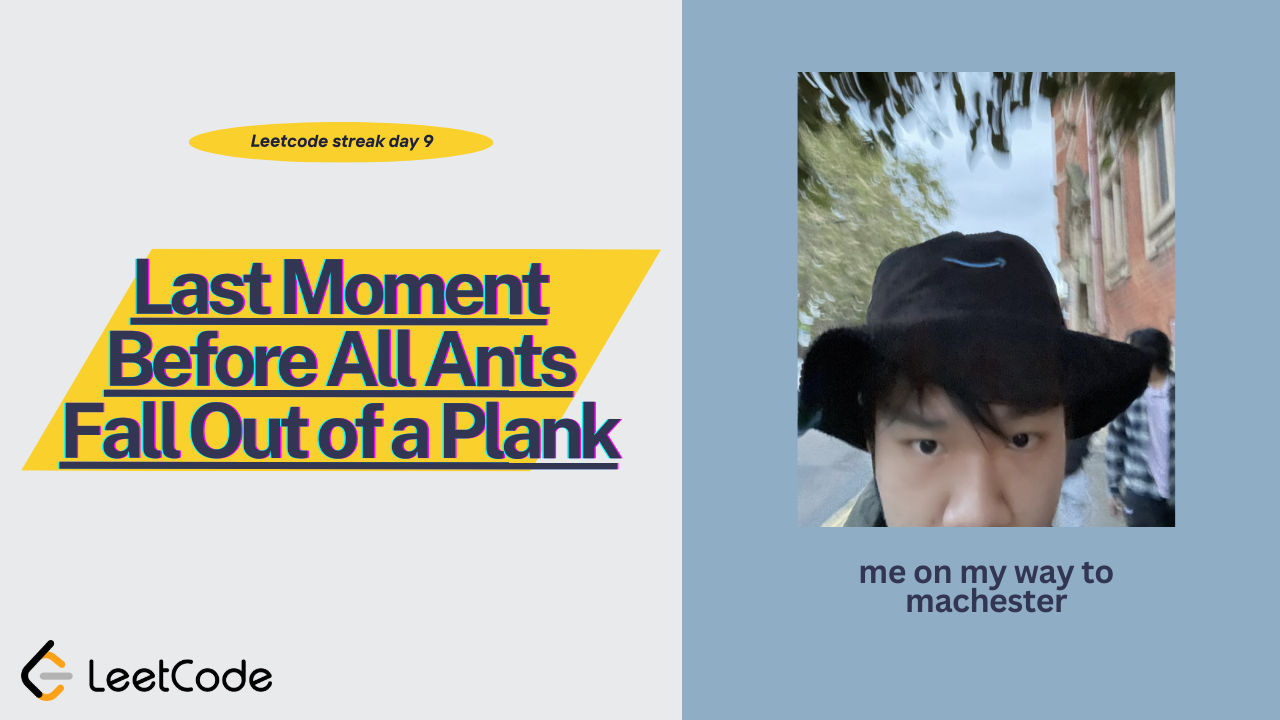
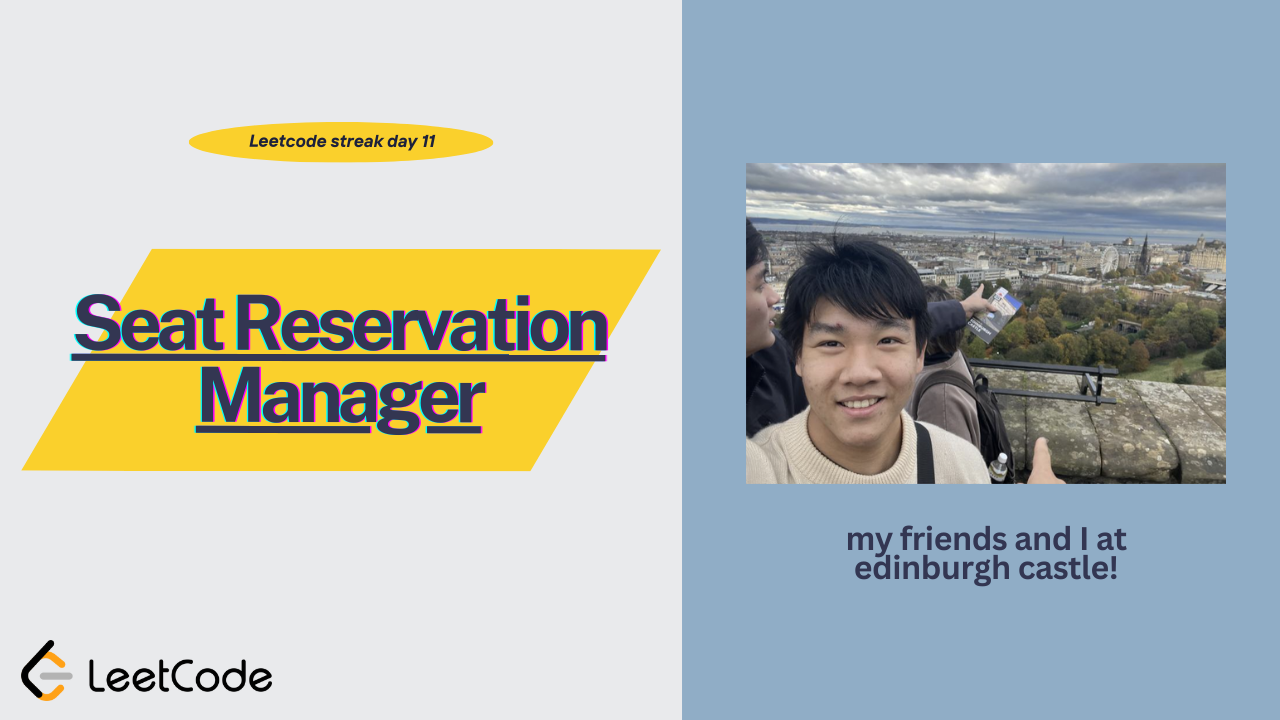
11/6

Changed region(s): [[0.5625, 0.0917, 0.9688, 0.8556], [0.0312, 0.3361, 0.5, 0.6722], [0.1875, 0.1833, 0.3438, 0.2139]]

diff --git a/november-2023/SeatManager.java b/november-2023/SeatManager.java
@@ -1,0 +1,27 @@
+import java.util.*;
+class SeatManager {
+    private PriorityQueue<Integer> q;
+    private int last;
+
+    public SeatManager(int n) {
+        this.last=1;
+        q = new PriorityQueue<Integer>();
+        for(int i = 1; i <=n;i++){
+            q.offer(i);
+        }
+    }
+    
+    public int reserve() {
+        if(!q.isEmpty()){
+            return q.poll();
+        }
+
+        int temp = this.last;
+        this.last++;
+        return temp;
+    }
+    
+    public void unreserve(int seatNumber) {
+        q.offer(seatNumber);    
+    }
+}
